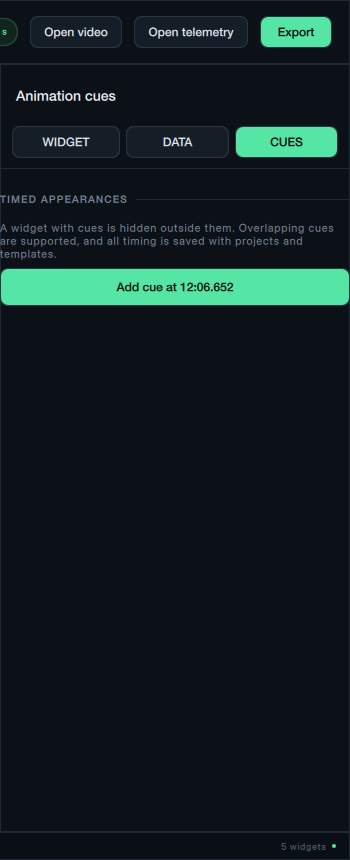
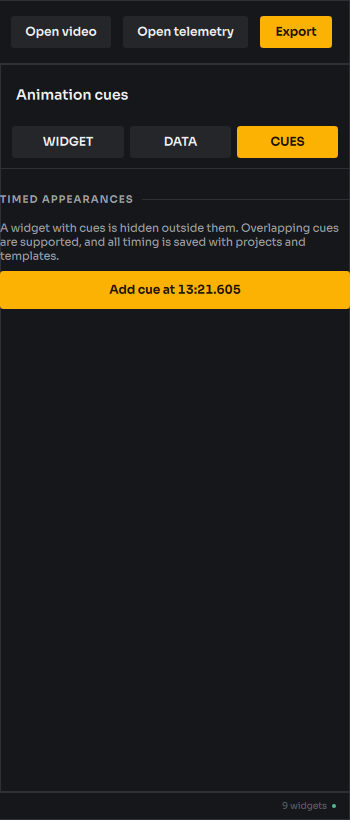
Retake the user-guide screenshots in the current look (KAN-189, interim) (#186)
The capture gains FLAPPEDEAR_GUIDE_SYNC_OFFSET to replace Auto Sync for a
video without GoPro GPS, applies the default template before the editor
pictures, also captures the Tech HUD template, and reports the export
error when an export cannot start. The pictures were retaken on Linux
over a neutral backdrop clip, since the GoPro footage is not available
until about 11 October; captions, the capture README, handover and the
delivery status say so. The Auto Sync and Video chapters pictures keep
the earlier look until the footage is back.

Claude-Session: https://claude.ai/code/session_01J7AU6rTpSid412Wj4uqesP

diff --git a/docs/user-guide/pages/index.html b/docs/user-guide/pages/index.html
@@ -4,10 +4,10 @@
 
 <figure>
   <img src="assets/screens/editor-window.png" alt="Editor window with an overlay over the video preview, the widget sidebar and the Inspector" width="1440" height="860" loading="lazy">
-  <figcaption>The editor with the former <em>Track Day</em> layout (taken before the widget list was reduced on 5 October 2026) over the onboard video of Session 5 at Jastrząb on 29 August 2026 (GoPro clip and RaceChrono Pro VBO), synchronized by Auto Sync, 38 s into the best lap.</figcaption>
+  <figcaption>The editor with the <em>Motorsport Broadcast HUD</em> layout on Session 5 at Jastrząb on 29 August 2026 (RaceChrono Pro VBO), 38 s into the best lap, over a neutral review backdrop.</figcaption>
 </figure>
 
-<p class="data-note">About the pictures: every screenshot in this guide is taken from the application's own controller and interface with real data: the onboard GoPro video and RaceChrono Pro VBO of Session 5 at Jastrząb on 29 August 2026, synchronized by Auto Sync, and all six sessions of that day in one event. How the pictures are produced is described in the <a href="https://github.com/FlappedEar/Overlay/tree/main/docs/user-guide/capture">capture tools</a>.</p>
+<p class="data-note">About the pictures: every screenshot in this guide is taken from the application's own controller and interface with real data: the RaceChrono Pro VBO of Session 5 at Jastrząb on 29 August 2026 and all six sessions of that day in one event. Since 6 October 2026 a neutral review backdrop stands in for the onboard GoPro video, so the pictures show the current interface; they will be retaken over the onboard video. The Auto Sync and Video chapters pictures still show the onboard video and the earlier look. How the pictures are produced is described in the <a href="https://github.com/FlappedEar/Overlay/tree/main/docs/user-guide/capture">capture tools</a>.</p>
 
 <h2 id="what">What it does</h2>
 <h3 id="overlay">Overlay editor</h3>

diff --git a/docs/user-guide/pages/export.html b/docs/user-guide/pages/export.html
@@ -15,7 +15,7 @@
 
 <figure>
   <img src="assets/screens/export-dialog.png" alt="Export dialog in Single lap · hotlap mode with source summary, output file, resolution, frame rate, quality, bitrate and lap range" width="1440" height="1040" loading="lazy">
-  <figcaption>The Export dialog in <strong>Single lap · hotlap</strong> mode for the Session 5 GoPro clip (3840×2160, 59.94 fps, HEVC Main 10). The range is the best lap, LAP 2 (1:49.898), plus a 6-second handle on each side: 2:01.905 in all.</figcaption>
+  <figcaption>The Export dialog in <strong>Single lap · hotlap</strong> mode for Session 5 over the review backdrop (1920×1080, 59.94 fps, 8-bit H.264). The range is the best lap, LAP 2 (1:49.898), plus a 6-second handle on each side: 2:01.922 in all.</figcaption>
 </figure>
 
 <h3 id="source">Source</h3>
@@ -78,7 +78,7 @@
 </figure>
 <figure>
   <img src="assets/screens/export-complete.png" alt="Export complete window" width="1440" height="860" loading="lazy">
-  <figcaption><em>Export complete</em>: the file passed validation. The final encoder was Apple VideoToolbox HEVC.</figcaption>
+  <figcaption><em>Export complete</em>: the file passed validation. This picture was taken on Linux, where the final encoder was x265; on a Mac it is usually Apple VideoToolbox HEVC.</figcaption>
 </figure>
 <p>The progress window ends with one of: <em>Export complete</em>, <em>Export completed with warning</em>, <em>Export failed</em> or <em>Export cancelled</em>. <em>Completed with warning</em> means the file was written but a few frames are missing at the very end; check the result before using it.</p>
 <p>Every export writes a log file, kept even when the export fails or is cancelled. The ten most recent logs are kept; see <a href="projects.html#files">Where files are stored</a>.</p>

diff --git a/docs/user-guide/pages/editor.html b/docs/user-guide/pages/editor.html
@@ -18,7 +18,7 @@
 <h2 id="layout">Window layout</h2>
 <figure>
   <img src="assets/screens/editor-window.png" alt="Editor window: header with file names, left sidebar with templates and widget tiles, preview with overlay, Inspector on the right, transport bar below" width="1440" height="860" loading="lazy">
-  <figcaption>The editor with the former <em>Track Day</em> layout (the picture predates the removal of its RPM, G-Force and Track widgets on 5 October 2026). Session 5 at Jastrząb on 29 August 2026 (GoPro clip and RaceChrono Pro VBO); the playhead is 38 s into the best lap (LAP 2). The header shows the applied synchronization, and the status bar the Auto Sync result.</figcaption>
+  <figcaption>The editor with the <em>Motorsport Broadcast HUD</em> layout on Session 5 at Jastrząb on 29 August 2026 (RaceChrono Pro VBO); the playhead is 38 s into the best lap (LAP 2). A neutral review backdrop stands in for the onboard video in this picture.</figcaption>
 </figure>
 <p>The window cannot be made smaller than 1180 × 720 pixels; it opens at 1440 × 900 the first time and remembers its position and size afterwards. From top to bottom and left to right it contains:</p>
 <table>
@@ -103,7 +103,7 @@
 </figure>
 <figure>
   <img src="assets/screens/editor-inspector-cues.png" alt="Inspector CUES tab" width="350" height="860" loading="lazy">
-  <figcaption>CUES tab for the selected Speed widget.</figcaption>
+  <figcaption>CUES tab for the selected Retro RPM widget.</figcaption>
 </figure>
 </div>
 

diff --git a/docs/user-guide/pages/templates.html b/docs/user-guide/pages/templates.html
@@ -13,7 +13,7 @@
 <p>In both templates the OIL, ATF and COOLANT widgets read RaceChrono's OBD channels <code>engine_oil_temp-obd</code>, <code>gearbox_temp-obd</code> and <code>coolant_temp-obd</code>. With another logger they show <code>—</code> until you select your own channel in <strong>Source channel</strong>. The Motorsport Broadcast HUD has no lap timer: add <strong>Current lap time</strong> from the widget list if you want one.</p>
 <figure>
   <img src="assets/screens/template-motorsport-broadcast-smoke.png" alt="Motorsport Broadcast HUD template" width="1280" height="720" loading="lazy">
-  <figcaption>Motorsport Broadcast HUD over Session 5 at Jastrząb on 29 August 2026 (GoPro clip and RaceChrono Pro VBO), 38 s into the best lap.</figcaption>
+  <figcaption>Motorsport Broadcast HUD on Session 5 at Jastrząb on 29 August 2026 (RaceChrono Pro VBO), 38 s into the best lap, over the review backdrop.</figcaption>
 </figure>
 <figure>
   <img src="assets/screens/template-tech-hud.png" alt="Tech HUD template" width="1280" height="720" loading="lazy">

diff --git a/docs/user-guide/pages/widgets.html b/docs/user-guide/pages/widgets.html
@@ -4,7 +4,7 @@
 
 <figure>
   <img src="assets/screens/template-motorsport-broadcast-smoke.png" alt="Motorsport Broadcast HUD template: Retro RPM, speed, pedals, temperature tiles, heart rate, G-force radar and bar over the video" width="1280" height="720">
-  <figcaption>The <em>Motorsport Broadcast HUD</em> template. Every widget picture on this page shows the same moment of Session 5 at Jastrząb on 29 August 2026 (GoPro clip and RaceChrono Pro VBO): 38 s into the best lap (LAP 2), accelerating at 58.6 km/h on 88 % throttle.</figcaption>
+  <figcaption>The <em>Motorsport Broadcast HUD</em> template. Every widget picture on this page shows the same moment of Session 5 at Jastrząb on 29 August 2026 (RaceChrono Pro VBO, over the review backdrop): 38 s into the best lap (LAP 2), accelerating at 58.6 km/h on 88 % throttle.</figcaption>
 </figure>
 
 <h2 id="adding">Adding and arranging widgets</h2>

diff --git a/native/tests/UserGuideCapture.cpp b/native/tests/UserGuideCapture.cpp
@@ -139,19 +139,26 @@ void captureUserGuide(const UserGuideCaptureOptions &options)
     QTRY_COMPARE_WITH_TIMEOUT(controller.videoLoadState(), QStringLiteral("ready"), 60000);
     QTRY_VERIFY_WITH_TIMEOUT(controller.playbackTime() > 0.0, 30000);
     QTRY_VERIFY_WITH_TIMEOUT(!window->property("previewPrimeFramePending").toBool(), 30000);
-    // Auto Sync is refused until the video's GPS has been read; retry until it starts.
-    bool started = false;
-    for (int attempt = 0; attempt < 30 && !started; ++attempt) {
-        controller.autoSync();
-        started = QTest::qWaitFor([&] { return controller.syncing() || !controller.syncCandidate().isEmpty(); }, 2000);
+    if (options.syncOffset) {
+        controller.setSyncOffset(*options.syncOffset);
+    } else {
+        // Auto Sync is refused until the video's GPS has been read; retry until it starts.
+        bool started = false;
+        for (int attempt = 0; attempt < 30 && !started; ++attempt) {
+            controller.autoSync();
+            started = QTest::qWaitFor([&] { return controller.syncing() || !controller.syncCandidate().isEmpty(); }, 2000);
+        }
+        QVERIFY2(started, "Auto Sync did not start");
+        QTRY_VERIFY_WITH_TIMEOUT(!controller.syncing() && !controller.syncCandidate().isEmpty(), 300000);
+        const QVariantMap sync = controller.syncCandidate();
+        qInfo().noquote() << QString("sync offset %1 s · correlation %2 · confidence %3 · applied %4")
+            .arg(controller.syncOffset(), 0, 'f', 3).arg(sync.value("correlation").toDouble(), 0, 'f', 4)
+            .arg(sync.value("confidence").toDouble(), 0, 'f', 2).arg(sync.value("automaticallyApplied").toBool());
+        QVERIFY(sync.value("automaticallyApplied").toBool());
     }
-    QVERIFY2(started, "Auto Sync did not start");
-    QTRY_VERIFY_WITH_TIMEOUT(!controller.syncing() && !controller.syncCandidate().isEmpty(), 300000);
-    const QVariantMap sync = controller.syncCandidate();
-    qInfo().noquote() << QString("sync offset %1 s · correlation %2 · confidence %3 · applied %4")
-        .arg(controller.syncOffset(), 0, 'f', 3).arg(sync.value("correlation").toDouble(), 0, 'f', 4)
-        .arg(sync.value("confidence").toDouble(), 0, 'f', 2).arg(sync.value("automaticallyApplied").toBool());
-    QVERIFY(sync.value("automaticallyApplied").toBool());
+
+    // The day opens with no layout; show the default template (KAN-189).
+    QVERIFY(controller.widgetModel()->applyTemplate("motorsport-broadcast-smoke"));
 
     // Halfway into the run's best lap.
     QVariantMap best;
@@ -173,7 +180,7 @@ void captureUserGuide(const UserGuideCaptureOptions &options)
         .arg(38).arg(controller.telemetryName()).arg(best.value("number").toInt())
         .arg(context->valueText("speed", 1), context->valueText("rpm", 0), context->valueText("throttle", 0),
              context->valueText("brake", 0), context->valueText("heartRate", 0));
-    QVERIFY(shoot.window(window, "editor-sync-result", {}, 1500));
+    if (!options.syncOffset) QVERIFY(shoot.window(window, "editor-sync-result", {}, 1500));
     QVERIFY(shoot.window(window, "editor-window"));
 
     auto *inspector = byType(window->contentItem(), "InspectorPanel");
@@ -192,7 +199,7 @@ void captureUserGuide(const UserGuideCaptureOptions &options)
     QVERIFY(gap && gap->parentItem() && gap->parentItem()->parentItem());
     QQuickItem *viewport = gap->parentItem(), *stage = viewport->parentItem();
     const QRectF viewportArea = viewport->mapRectToItem(stage, viewport->boundingRect());
-    for (const QString id : {"motorsport-broadcast-smoke"}) {
+    for (const QString id : {"motorsport-broadcast-smoke", "tech-hud"}) {
         QVERIFY2(controller.widgetModel()->applyTemplate(id), qPrintable(id));
         QVERIFY(shoot.item(stage, viewportArea, {1280, 720}, "template-" + id, 1200));
     }
@@ -265,9 +272,9 @@ void captureUserGuide(const UserGuideCaptureOptions &options)
     QDir().mkpath(QStringLiteral("/tmp/FlappedEar"));
     const QString target = QStringLiteral("/tmp/FlappedEar/jastrzab-session-5.mp4");
     QFile::remove(target);
-    QVERIFY(controller.startExport(QUrl::fromLocalFile(target), 1920, 1080, 60000, 1001,
+    QVERIFY2(controller.startExport(QUrl::fromLocalFile(target), 1920, 1080, 60000, 1001,
         controller.recommendedExportBitrate(1920, 1080, 60000, 1001, QStringLiteral("high")),
-        true, true, timecode(firstFrame), timecode(firstFrame + 8 * 60)));
+        true, true, timecode(firstFrame), timecode(firstFrame + 8 * 60)), qPrintable(controller.exportError()));
     qInfo() << "export started" << controller.exportState() << timecode(firstFrame);
     QQuickItem *overlayRoot = window->contentItem()->parentItem() ? window->contentItem()->parentItem() : window->contentItem();
     const auto finished = [&] { return controller.exportState() == "complete" || controller.exportState() == "failed"; };

diff --git a/native/tests/NativeEditorTests.cpp b/native/tests/NativeEditorTests.cpp
@@ -531,6 +531,8 @@ void EditorTests::capturesUserGuideScreens()
     // and FLAPPEDEAR_GUIDE_VBO are a matching GoPro clip and VBO;
     // FLAPPEDEAR_GUIDE_DAY (optional) is the folder of that day's VBOs and
     // FLAPPEDEAR_GUIDE_CHAPTERS (optional) a comma-separated chaptered clip.
+    // FLAPPEDEAR_GUIDE_SYNC_OFFSET (optional, seconds) replaces Auto Sync for
+    // a video without GoPro GPS (KAN-189).
     // Private media is read in place and never copied.
     UserGuideCaptureOptions options;
     options.outputDirectory = qEnvironmentVariable("FLAPPEDEAR_GUIDE_CAPTURE_DIR");
@@ -543,6 +545,11 @@ void EditorTests::capturesUserGuideScreens()
             options.day << file.absoluteFilePath();
     const QString chapters = qEnvironmentVariable("FLAPPEDEAR_GUIDE_CHAPTERS");
     if (!chapters.isEmpty()) options.chapters = chapters.split(',', Qt::SkipEmptyParts);
+    if (const QString offset = qEnvironmentVariable("FLAPPEDEAR_GUIDE_SYNC_OFFSET"); !offset.isEmpty()) {
+        bool ok = false;
+        options.syncOffset = offset.toDouble(&ok);
+        QVERIFY2(ok, "FLAPPEDEAR_GUIDE_SYNC_OFFSET is not a number");
+    }
     QTemporaryDir scratch; QVERIFY(scratch.isValid());
     options.scratchDirectory = scratch.path();
     QVERIFY(FlappedEar::registerBundledFonts());

diff --git a/native/tests/UserGuideCapture.h b/native/tests/UserGuideCapture.h
@@ -3,6 +3,8 @@
 #include <QString>
 #include <QStringList>
 
+#include <optional>
+
 namespace FlappedEar {
 
 // KAN-138: the user guide's screenshots, taken from the application's own
@@ -14,6 +16,9 @@ struct UserGuideCaptureOptions {
     QStringList day;           // every VBO of that day, `recording` included
     QStringList chapters;      // optional: a chaptered clip for the Video chapters dialog
     QString scratchDirectory;  // temporary project files and the test export
+    // KAN-189: a fixed offset instead of Auto Sync, for a video without GoPro
+    // GPS (a neutral backdrop); editor-sync-result is then not taken.
+    std::optional<double> syncOffset;
 };
 
 // Uses QTest macros: a failed step fails the calling test.

diff --git a/docs/product-delivery.md b/docs/product-delivery.md
@@ -22,9 +22,10 @@ This section supersedes the dated baseline below where they differ. The root
 | M5 core acceptance ([KAN-10]) | 6 of 12 | Open: KAN-80 and KAN-81 (matching video), KAN-83 (clean machine), KAN-84 (Windows installer, paused), KAN-85 (notices), KAN-86 (closure) |
 | M6 full vision ([KAN-11]) | 14 of 24 | Open: KAN-89, KAN-94–KAN-96, KAN-98, KAN-99, KAN-106, KAN-108–KAN-110 |
 | Product split (KAN-121, superseded by KAN-165) | Phases 1–2 and KAN-132 done; KAN-121 closed; KAN-125 rename merged | Separate repositories (2 October 2026). Stage 1: FlappedEar Overlays standalone in this repository (KAN-125; decision 3 in KAN-122). Stage 2: FlappedEar Telemetry, a new Flutter app from a blank page in its own repository and Jira project (decision KAN-167; architect handover KAN-168; KAN-126–KAN-130 move to the new project), with one `.fetproject` format compatible between both apps (KAN-170). Stage 3, done on 5 October 2026: the owner approved removing the analysis from Overlays that day (KAN-169 done, recording the last full-analysis commit `7eae6cd`; KAN-166 and KAN-186 done). Done: plan steps 1 and 2 (PRs #153 and #156), the automatic best lap of KAN-185 (PR #158), and step 3 (PR #160), which removes the View, welcome and transport entry points to the Lap Analysis window, adds a run picker to the editor header and drops the Analysis pages from the user guide, step 4 (PR #161), which deletes the 24 analysis QML files and their 38 UI tests (the real-day grouping and best-lap check, the day-decision recovery test and the chapter review test stay), step 5 (PR #162), which removes `AnalysisController` from `AppController` (Overlays' day-decision tests now make their decisions in `TelemetryController`), step 6 (PR #163), which removes **File › Import telemetry runs…** and its dialog, so Overlays opens days saved by Telemetry (KAN-186), and step 7 (PR #164), which removes leftover includes, the unused loaded chart-channel list and stale notes, and brings the handover current. Platforms: Overlays macOS and Windows; Telemetry macOS, Windows, iOS and Android |
-| Widget list (KAN-192) | Done in this change | Owner decision, 5 October 2026: keep the widgets of the owner's track video plus Tyres and designed widgets; 18 types and 9 built-in templates removed; saved documents with removed types open without them |
+| Widget list (KAN-192) | Done (PR #171) | Owner decision, 5 October 2026: keep the widgets of the owner's track video plus Tyres and designed widgets; 18 types and 9 built-in templates removed; saved documents with removed types open without them |
 | Tech widget style (KAN-193) | Done (PR #176) | Owner choice, 5 October 2026: design D (Chakra Petch, cut-corner plates, amber tab, slanted pedal bars) with design C's thin RPM arc; per-widget Style setting (Classic default) and the Tech HUD built-in template |
-| Widget settings clean-up (KAN-139) | Done in this change | The WIDGET tab offers only settings that change the selected widget in its style; four dead defaults dropped (saved documents keep them); Retro Custom icon and stacking, Retro RPM red zone and colours, tyre pressure decimals, lap-tile label and Tech radar ring label exposed; Retro RPM canvas font fixed for multi-word families |
+| Widget settings clean-up (KAN-139) | Done (PR #179) | The WIDGET tab offers only settings that change the selected widget in its style; four dead defaults dropped (saved documents keep them); Retro Custom icon and stacking, Retro RPM red zone and colours, tyre pressure decimals, lap-tile label and Tech radar ring label exposed; Retro RPM canvas font fixed for multi-word families |
+| User-guide screenshots (KAN-189) | Interim in this change | Retaken on 6 October 2026 in the current look over a neutral review backdrop (no GoPro footage available); the Auto Sync and Video chapters pictures and the final retake over the onboard video wait for the footage |
 | Stabilisation (KAN-144) | 20 of 25 | From the independent audit of 2 October 2026 and the owner's Windows validation; it gates M5. Done: KAN-145 to KAN-151, KAN-154 to KAN-157, KAN-159, KAN-161, KAN-164, KAN-172 to KAN-176, KAN-178. Open: KAN-152, KAN-153, KAN-158, KAN-160, KAN-179 (KAN-154: `main` protection enabled 4 October, Linux sanitizer job added 5 October; since 5 October the boundary checks follow includes from each library's sources and the macOS FFmpeg is range-tested (8.1 to 9.x), and pull requests run clang-tidy on changed files; KAN-161: the editor's GUI tests run as five domain suites and `AppController` is the `flappedear_editor` library since 5 October; KAN-157: value lookup and auto-sync stop at time gaps since 5 October; KAN-155: libFuzzer harnesses for VBO, RCZ and GPMF, 10 minutes each without a finding, and a 60-second pass per parser in CI) |
 
 - **CI:** Native CI builds macOS arm64 Debug and Release with Qt 6.8.3 and runs 40

diff --git a/docs/user-guide/capture/README.md b/docs/user-guide/capture/README.md
@@ -35,6 +35,27 @@ python3 docs/user-guide/build.py
   the Video chapters dialog.
 - It runs on macOS with a display, in about two and a half minutes. The test
   export goes to `/tmp/FlappedEar/` and is deleted afterwards.
+- `FLAPPEDEAR_GUIDE_SYNC_OFFSET` (optional, seconds) replaces Auto Sync for a
+  video without GoPro GPS, and `editor-sync-result.png` is then not taken. The
+  pictures of 6 October 2026 (KAN-189) used it with offset 0 and a neutral
+  backdrop clip, because the GoPro footage was not available:
+
+  ```bash
+  ffmpeg -f lavfi -i "gradients=s=1920x1080:c0=0x5d6b78:c1=0x2a3138:x0=0:y0=0:x1=0:y1=1080:speed=0" -frames:v 1 frame.png
+  ffmpeg -loop 1 -framerate 60000/1001 -i frame.png -frames:v 600 \
+    -vf "scale=out_color_matrix=bt709:out_range=tv,format=yuv420p" \
+    -c:v libx264 -preset ultrafast -tune stillimage -g 600 -an short.mp4
+  ffmpeg -f lavfi -i "anullsrc=r=48000:cl=stereo" -t 1501.5 -c:a aac silence.m4a
+  ffmpeg -stream_loop 149 -i short.mp4 -i silence.m4a -map 0:v -map 1:a -c copy -shortest \
+    -bsf:v h264_metadata=colour_primaries=1:transfer_characteristics=1:matrix_coefficients=1:video_full_range_flag=0 \
+    backdrop.mp4
+  ```
+
+  Export refuses a source without colour tags or with a frame rate below the
+  output's, hence the tags and the exact 600-frame loop.
+- On Linux (Xvfb with a PulseAudio null sink) the window has an in-window menu
+  bar that macOS does not; crop the top 40 px of the window-sized pictures
+  and the two inspector pictures.
 - The pictures show the moment 38 s into the recording's best lap. Captions
   quote values from the pictures: when the media or the application changes,
   check the captions too.

diff --git a/handover.md b/handover.md
@@ -61,6 +61,11 @@ that check over this file.
 - **Inspector shows only working controls (KAN-139, 6 October 2026):**
   `InspectorPanel.qml`'s `unusedControls` lists, per style and type, the
   shared settings a renderer ignores; update it when a renderer changes.
+- **User-guide pictures (KAN-189, 6 October 2026):** retaken over a neutral
+  backdrop clip with `FLAPPEDEAR_GUIDE_SYNC_OFFSET` (no GoPro GPS), on Linux
+  with the menu bar cropped. `editor-sync-result.png` and `video-chapters.png`
+  still show the old look; retake everything over GX010089.MP4 when the footage
+  is back (see `docs/user-guide/capture/README.md`).
 - `currentstate.md` and `ROADMAP.md` were archived to `docs/history/` (KAN-159).
   `docs/product-delivery.md` and Jira are the only status records.
 
